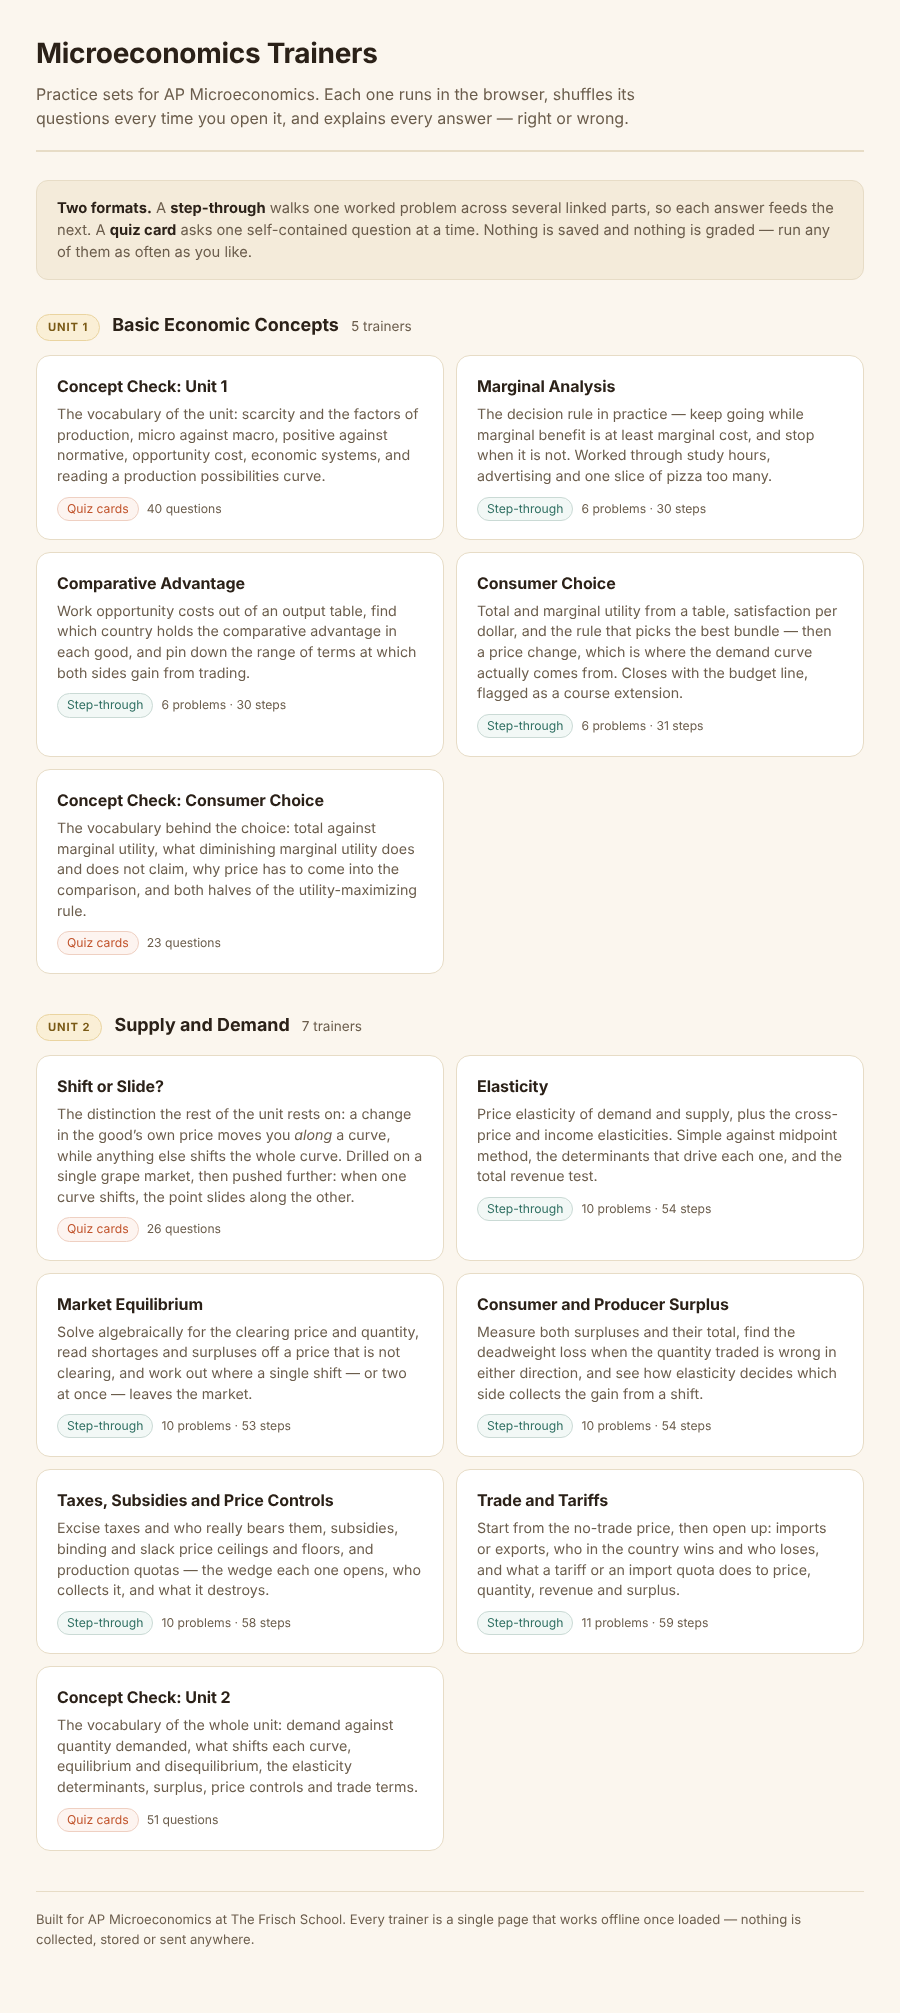
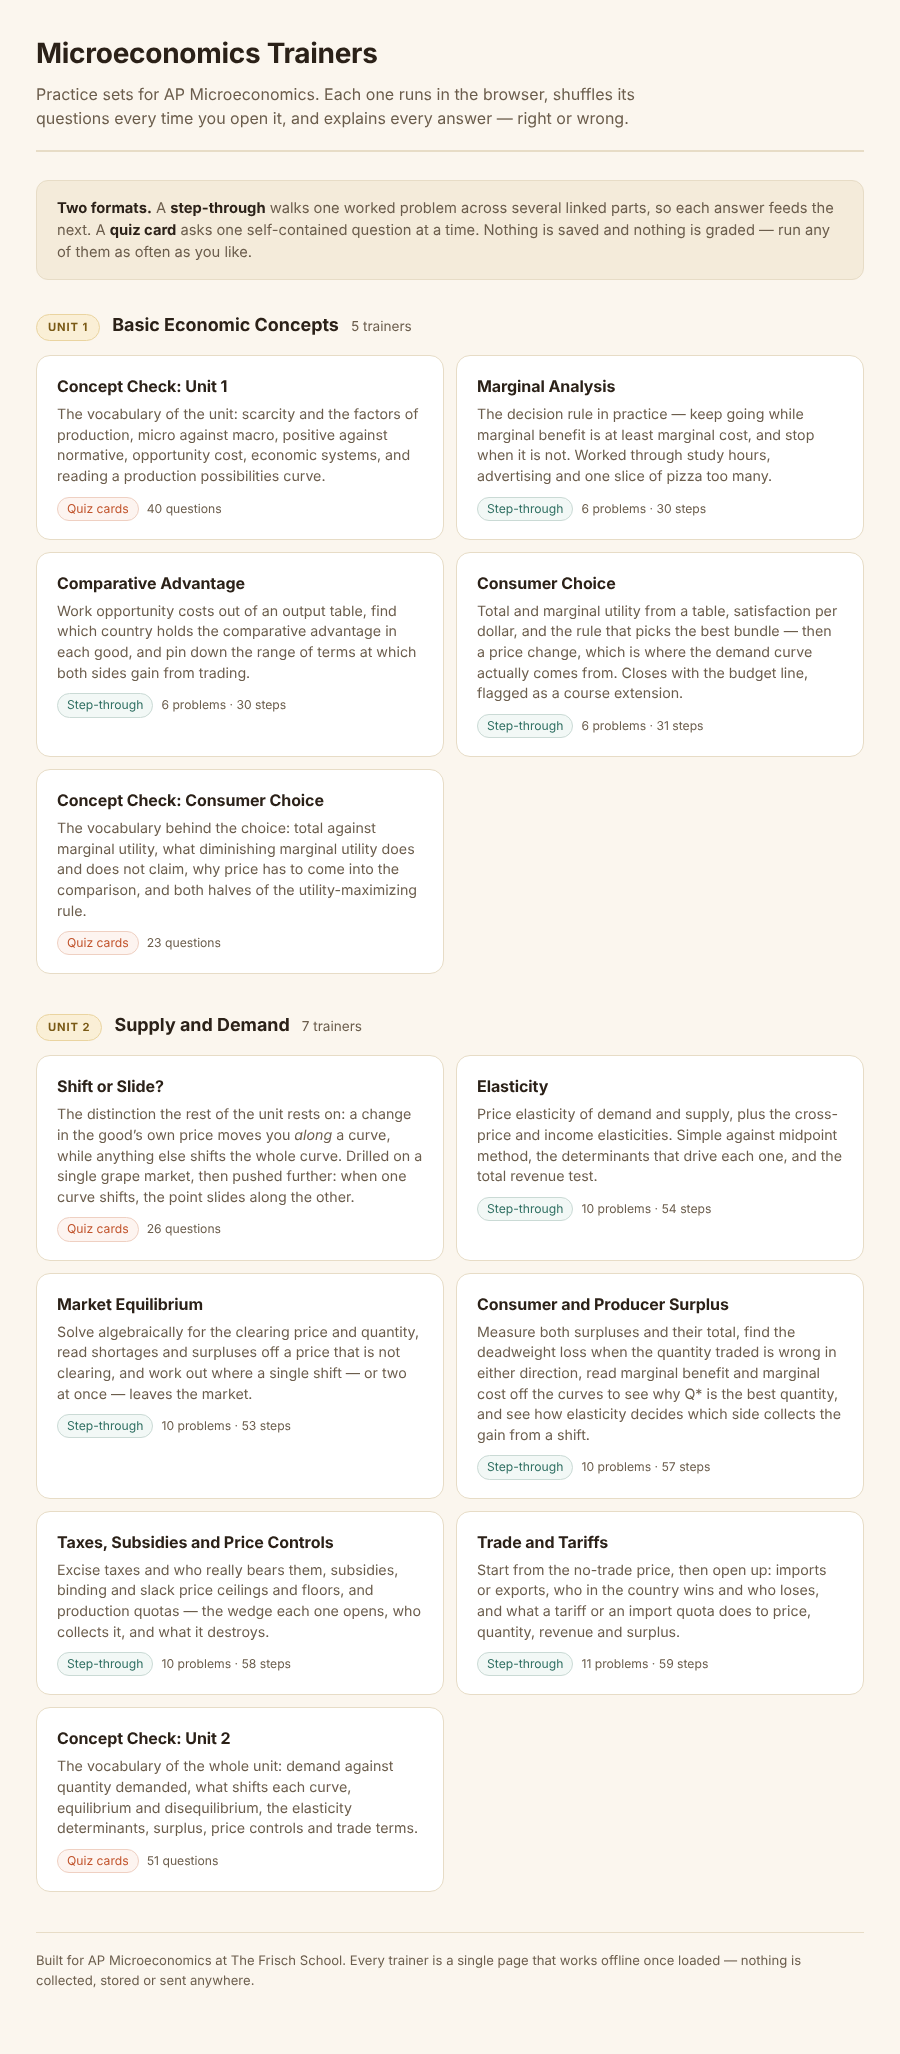
Surplus: say why Q* maximizes total surplus in marginal terms
Three steps added to P3, the Brightwater Filters market (D: P = 100 - 2Q,
S: P = 20 + 2Q, Q* = 20, P* = $60), so every figure is checkable against a
problem the trainer already solves. They sit after the two deadweight-loss
calculations and before the closing general-principle step, so the marginal
account explains the numbers the student has just worked out.

  below Q*   the 10th filter: MB = $80, MC = $40. What a buyer will pay beats
             what a seller needs by $40, so the unit is worth making -- true of
             every unit up to Q*
  above Q*   the 30th filter: MB = $40, MC = $80. The curves have crossed, so
             making it burns $80 of resources to produce something worth $40
  at Q*      MB = MC = $60 = P*, and that is the whole argument: every unit
             worth making has been made and no unit costing more than it is
             worth has been

The third explanation closes the loop to deadweight loss using the figures the
student derived three steps earlier: trade too little and you lose the units
whose marginal benefit exceeded their marginal cost -- the $50 at 15 filters;
trade too much and you produce units whose marginal cost exceeded their
marginal benefit -- the $50 at 25 filters. Both shrink to nothing only where
the gap between the curves closes.

MB and MC are now defined in the on-screen terms panel, tied to willingness to
pay and seller cost, and the deadweight-loss review line now says that the
[…]

diff --git a/unit2-surplus.html b/unit2-surplus.html
@@ -471,10 +471,13 @@ const MARKET_GRAPH = `
 </svg>`;
 
 const TERMS = '<b>CS</b> = consumer surplus. <b>PS</b> = producer surplus. <b>TS</b> = total surplus. ' +
-              '<b>DWL</b> = deadweight loss. <b>P*</b> = equilibrium price. <b>Q*</b> = equilibrium quantity.';
+              '<b>DWL</b> = deadweight loss. <b>P*</b> = equilibrium price. <b>Q*</b> = equilibrium quantity. ' +
+              '<b>MB</b> = marginal benefit, the most a buyer will pay for one more unit. ' +
+              '<b>MC</b> = marginal cost, the least a seller will accept to produce it.';
 const REVIEW_CALC = 'CS is the triangle between the demand curve and the price, from 0 out to Q*. PS is the triangle between the price and the ' +
   'supply curve over that same range. Area of a triangle is 1/2 &times; base &times; height, with Q* as the base in both. TS = CS + PS.';
-const REVIEW_DWL = 'TS = CS + PS, and it is largest exactly at Q*. Below Q*, units worth more to buyers than they cost to make go untraded; above Q*, ' +
+const REVIEW_DWL = 'TS = CS + PS, and it is largest exactly at Q*. Read the curves one unit at a time: the height of demand at a quantity is that unit\'s ' +
+  'marginal benefit and the height of supply is its marginal cost. Below Q*, units worth more to buyers than they cost to make go untraded; above Q*, ' +
   'units get made that cost more than buyers value them. Either way the loss is a triangle: DWL = 1/2 &times; (distance from Q*) &times; (gap between the two curves there).';
 const REVIEW_SHIFT = 'Reason first about the curve that did NOT move. If supply shifted, demand is unchanged, so CS follows the price: lower price plus larger ' +
   'quantity makes that triangle bigger, higher price plus smaller quantity makes it smaller. If demand shifted, supply is unchanged and PS follows the price the same way. ' +
@@ -548,7 +551,7 @@ const PROBLEMS = [
   {
     id: "P3",
     topic: "Total surplus is largest exactly at Q*",
-    method: "Deadweight loss · deviating from Q* in either direction",
+    method: "Deadweight loss · one market, several quantities",
     scenario: "Brightwater Filters sells water filters. P is the price in dollars per filter and Q is filters per day.",
     terms: TERMS, review: REVIEW_DWL, graph: "SURPLUS",
     table: { cols: ["", "Equation"], colClass: ["row-label", "q-cell"],
@@ -569,6 +572,24 @@ const PROBLEMS = [
       { prompt: "Now suppose 25 filters are traded — five MORE than Q*. What is the deadweight loss then?",
         options: ["$50", "Zero", "$100", "$25"], correct: 0,
         explain: "At Q = 25 demand is 100 − 2(25) = $50 while supply is 20 + 2(25) = $70, so the 25th filter costs $20 more to make than any buyer thinks it is worth. Those five extra units destroy surplus rather than create it: DWL = 1/2 × 5 × 20 = $50 again, leaving TS at $750 — exactly where it was at 15 filters." },
+      { prompt: "Read one unit at a time. Take the 10th filter, ten units below Q*. What are its marginal benefit and its marginal cost?",
+        options: ["Marginal benefit $80 and marginal cost $40, so what a buyer will pay beats what a seller needs by $40",
+                  "Marginal benefit $40 and marginal cost $80, so what a seller needs beats what a buyer will pay by $40",
+                  "Marginal benefit $80 and marginal cost $80, so willingness to pay and seller cost already match here",
+                  "Marginal benefit $60 and marginal cost $60, since every unit traded changes hands at the $60 price"], correct: 0,
+        explain: "The height of the demand curve at a quantity IS the marginal benefit of that unit — the most any buyer will pay for it. The height of the supply curve is the marginal cost — the least any seller will accept to produce it. At Q = 10: MB = 100 − 2(10) = $80 and MC = 20 + 2(10) = $40. Marginal benefit is $40 above marginal cost, so the 10th filter is worth making; it creates $40 of surplus for the two sides to share. The same holds for every unit up to Q*, which is why the demand curve lies above the supply curve the whole way there. Note the last option: $60 is what the unit SELLS for, which is not the same as what it is worth to the buyer or what it costs the seller." },
+      { prompt: "Now the 30th filter, ten units beyond Q*. What are its marginal benefit and its marginal cost?",
+        options: ["Marginal benefit $40 and marginal cost $80, so it costs $40 more to make than a buyer will pay",
+                  "Marginal benefit $80 and marginal cost $40, so it is worth $40 more to a buyer than it costs to make",
+                  "Marginal benefit $40 and marginal cost $40, so willingness to pay and seller cost match beyond Q*",
+                  "Marginal benefit $60 and marginal cost $60, since past Q* both settle back to the $60 market price"], correct: 0,
+        explain: "MB = 100 − 2(30) = $40 and MC = 20 + 2(30) = $80. Past Q* the curves have crossed, so the order reverses: the cheapest seller still willing to make a 30th filter needs $80 for it, while the keenest buyer left will pay only $40. Making that filter destroys $40 of value — it consumes $80 of resources to produce something worth $40 to the person who ends up with it. Every unit beyond Q* is like this, which is why pushing output past Q* lowers total surplus instead of raising it." },
+      { prompt: "At Q* = 20 itself, what is true of marginal benefit and marginal cost, and why does that make Q* the quantity that maximizes total surplus?",
+        options: ["They are equal, both $60: every unit whose marginal benefit beat its marginal cost has been made, and no unit past Q* has",
+                  "Marginal benefit is at its highest here, $100, because the market trades on until buyers' willingness to pay can climb no further",
+                  "Marginal cost is at its lowest here, $20, because the market trades on until sellers have used up every one of their cheapest units",
+                  "They are equal, both $60, and that equality is also the reason consumer surplus and producer surplus always come out equal at Q*"], correct: 0,
+        explain: "MB = 100 − 2(20) = $60 and MC = 20 + 2(20) = $60. At Q* the curves cross, so marginal benefit and marginal cost are equal — and both equal P*. That is the whole case for the competitive equilibrium in one line: every filter before the 20th was worth more to a buyer than it cost a seller and got made, and every filter after it would have cost more than it was worth, so it does not get made. This is also where the two deadweight losses you just computed come from. Trade too little and the units you give up are exactly the ones whose marginal benefit exceeded their marginal cost — that was the $50 at 15 filters. Trade too much and you produce units whose marginal cost exceeded their marginal benefit — the $50 at 25 filters. Both losses shrink to nothing only here, where the gap between the curves closes. Watch the last option: CS and PS really are equal in this market, but that is a coincidence of the slopes, not the reason Q* is best." },
       { prompt: "What is the general principle these two cases illustrate?",
         options: ["Total surplus is largest exactly at Q*, and moving away from it in either direction destroys surplus",
                   "Total surplus rises with quantity, so producing more output is always better for buyers and sellers alike",
@@ -828,9 +849,9 @@ const PROBLEMS = [
 /* ------------------------------------------------------------ state + helpers */
 /* Results bands. Banding uses the ROUNDED percentage -- the same number shown
    to the student -- so the label can never disagree with the figure beside it.
-   Raw-score ranges over this 54-question bank, checked in the scratch script:
-     Mastered 49-54 | Strong 43-48 | Developing 38-42 | Shaky 30-37 | below 30
-   Blind guessing on 4 options averages 14/54, which lands in the bottom band. */
+   Raw-score ranges over this 57-question bank, checked in the scratch script:
+     Mastered 52-57 | Strong 46-51 | Developing 40-45 | Shaky 32-39 | below 32
+   Blind guessing on 4 options averages 14/57, which lands in the bottom band. */
 const BANDS = [
   { min: 90, label: 'Mastered', tone: 'good',
     note: 'You can compute the surplus areas, size a deadweight loss, and say who gains from a shift. Treat this topic as secure.' },

diff --git a/index.html b/index.html
@@ -234,8 +234,8 @@
 
       <a class="card" href="unit2-surplus.html">
         <h3>Consumer and Producer Surplus</h3>
-        <p>Measure both surpluses and their total, find the deadweight loss when the quantity traded is wrong in either direction, and see how elasticity decides which side collects the gain from a shift.</p>
-        <div class="meta"><span class="tag step">Step-through</span><span>10 problems &middot; 54 steps</span></div>
+        <p>Measure both surpluses and their total, find the deadweight loss when the quantity traded is wrong in either direction, read marginal benefit and marginal cost off the curves to see why Q* is the best quantity, and see how elasticity decides which side collects the gain from a shift.</p>
+        <div class="meta"><span class="tag step">Step-through</span><span>10 problems &middot; 57 steps</span></div>
       </a>
 
       <a class="card" href="unit2-intervention.html">
